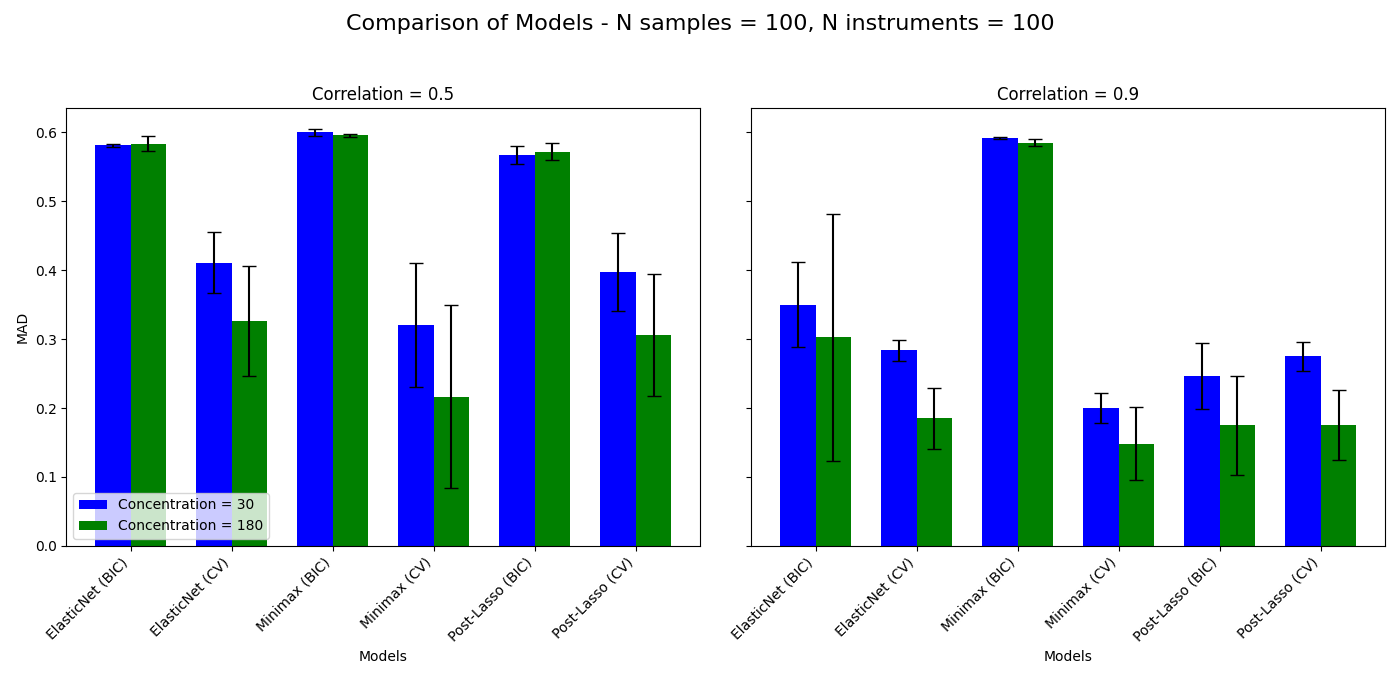
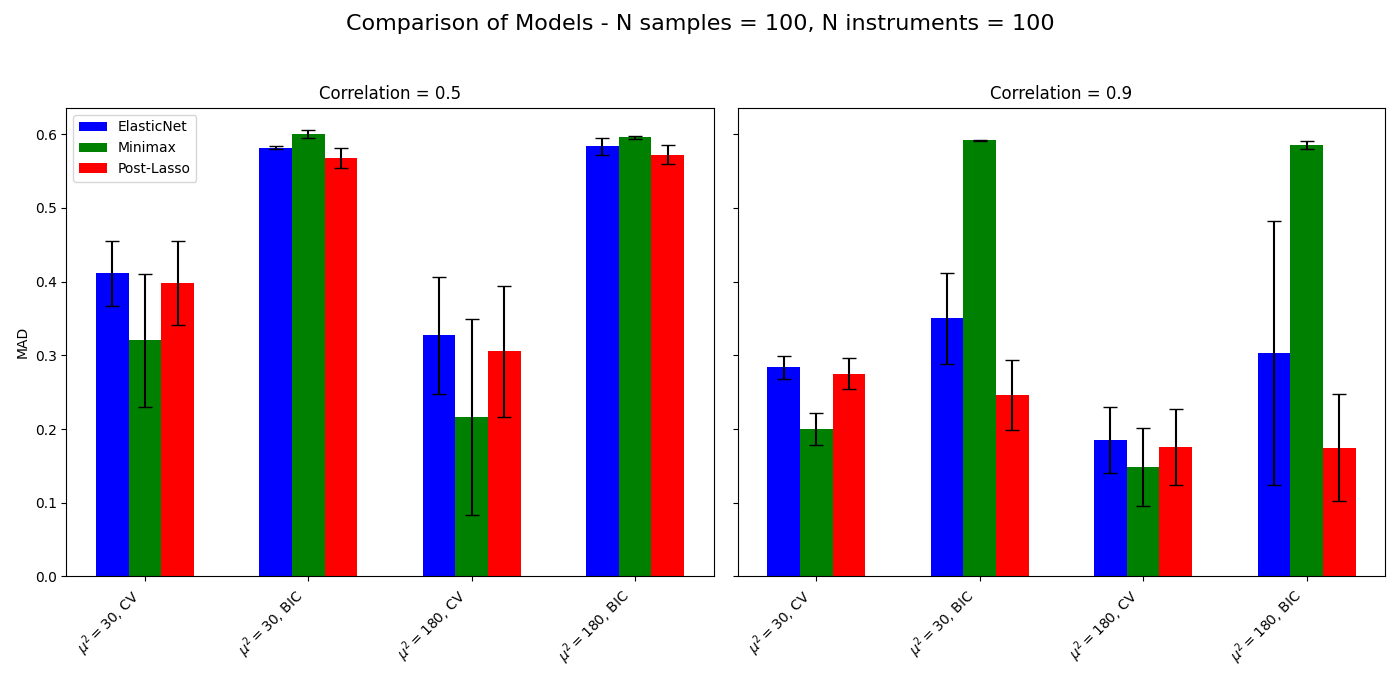
Grouped plots differently

diff --git a/visualise_results.py b/visualise_results.py
@@ -8,8 +8,8 @@ compare_models = ["ElasticNet (BIC)", "ElasticNet (CV)", "Minimax (BIC)", "Minim
 
 # Choose the metric to visualize: "MAD", "Bias", "rp(0.05)"
 metric = "MAD"
-n_samples = 250
-n_instruments = 100
+n_samples = 100
+n_instruments = 250
 
 fig, axs = plt.subplots(1, 2, figsize=(14, 7), sharey=True)
 
@@ -24,20 +24,26 @@ for i, correlation in enumerate([0.5, 0.9]):
     result_df = result_df.reset_index(drop=True)
     
     # Create bar chart
-    bar_width = 0.35
-    index = np.arange(len(compare_models))
-    colors = ['b', 'g']
+    bar_width = 0.2
+    index = np.arange(4)
+    colors = ['b', 'g', 'r']
+    model_types = ["ElasticNet", "Minimax", "Post-Lasso"]
     
-    for j, concentration in enumerate([30, 180]):
-        means = result_df[result_df["Concentration"] == concentration].groupby('Model')[metric].mean().reindex(compare_models)
-        stds = result_df[result_df["Concentration"] == concentration].groupby('Model')[metric].std().reindex(compare_models)
+    for j, model_type in enumerate(model_types):
+        means = []
+        stds = []
+        for concentration in [30, 180]:
+            for criterion in ["CV", "BIC"]:
+                model = f"{model_type} ({criterion})"
+                means.append(result_df[(result_df["Model"] == model) & (result_df["Concentration"] == concentration)][metric].mean())
+                stds.append(result_df[(result_df["Model"] == model) & (result_df["Concentration"] == concentration)][metric].std())
         
-        axs[i].bar(index + j * bar_width, means, bar_width, yerr=stds, capsize=5, label=f'Concentration = {concentration}', color=colors[j])
+        axs[i].bar(index + j * bar_width, means, bar_width, yerr=stds, capsize=5, label=model_type, color=colors[j])
     
-    axs[i].set_xlabel('Models')
+    #axs[i].set_xlabel('Models')
     axs[i].set_title(f'Correlation = {correlation}')
-    axs[i].set_xticks(index + bar_width / 2)
-    axs[i].set_xticklabels(compare_models, rotation=45, ha='right')
+    axs[i].set_xticks(index + bar_width)
+    axs[i].set_xticklabels(['$\mu^2=30$, CV', '$\mu^2=30$, BIC', '$\mu^2=180$, CV', '$\mu^2=180$, BIC'], rotation=45, ha='right')
 
 axs[0].set_ylabel(metric)
 axs[0].legend()
